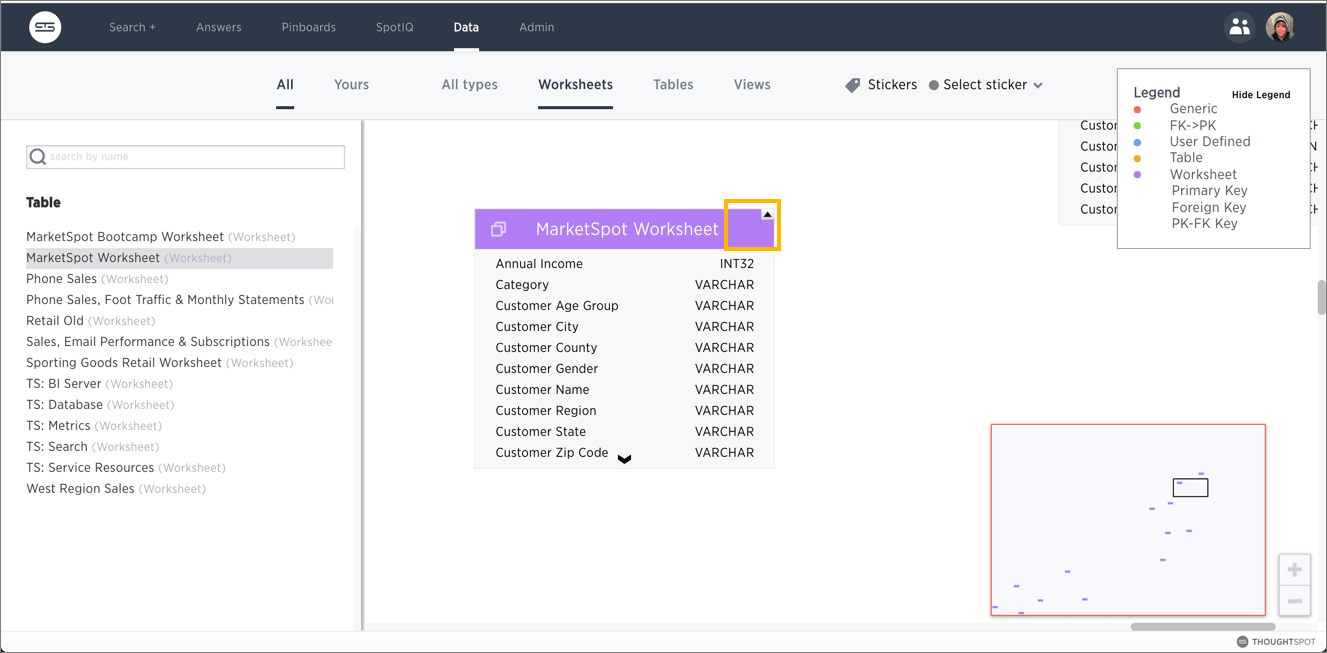
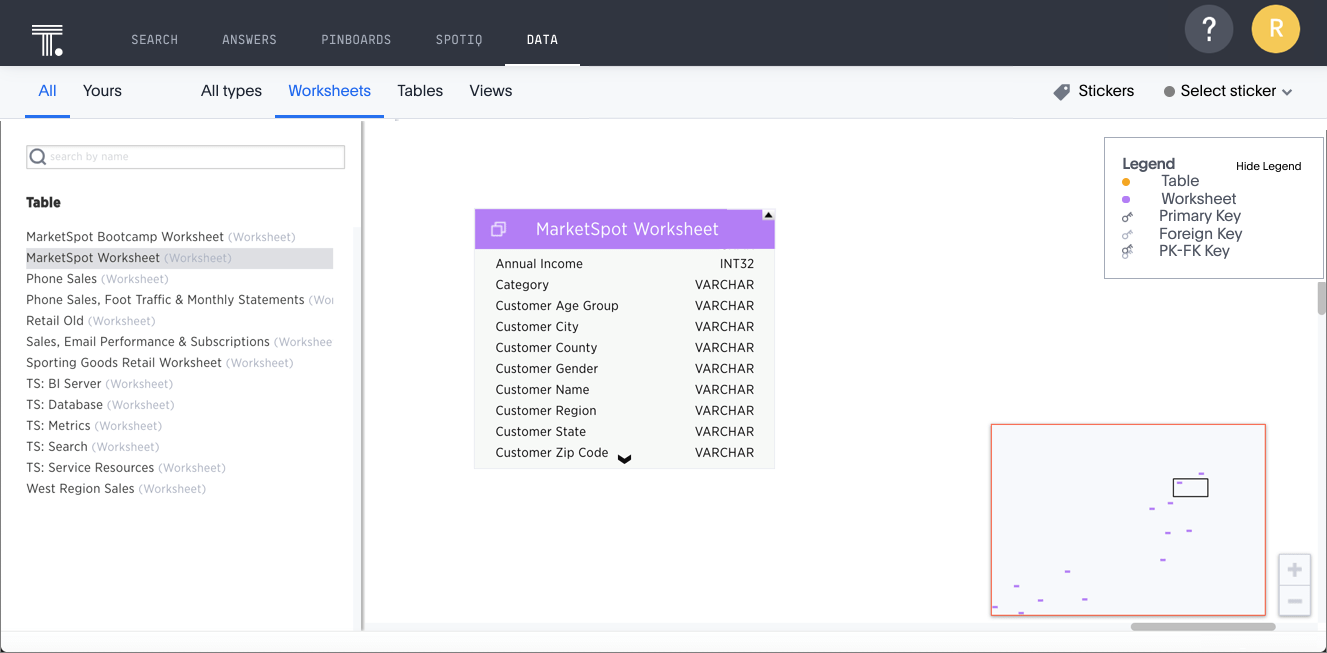
SCAL 70361: removed and updated images in How to view a data scheme

diff --git a/_admin/loading/schema-viewer.md b/_admin/loading/schema-viewer.md
@@ -1,6 +1,6 @@
 ---
 title: [How to view a data schema]
-last_updated: 07/27/2019
+last_updated: 11/19/2020
 toc: true
 summary: "Use the schema viewer to see tables and worksheets and their relationships. "
 sidebar: mydoc_sidebar
@@ -14,11 +14,9 @@ You must have **Admin** privileges to use the **Schema Viewer**.
 
 1. Click the **Data** tab in the top menu.  
 
-   ![]({{ site.baseurl }}/images/click-data.png "Click Data")
-
 2. Click the **More** menu ![more options menu icon]({{ site.baseurl }}/images/icon-ellipses.png){: .inline} (ellipses icon), and select **View Schema**.
 
-   ![]({{ site.baseurl }}/images/access_schema_viewer.png "Access the Schema Viewer")
+   ![]({{ site.baseurl }}/images/view-schema.png "Access the Schema Viewer")
 
 3. When the schema appears, you can see that you can control the visible part of the schema.
 
@@ -43,8 +41,6 @@ You must have **Admin** privileges to use the **Schema Viewer**.
 You can now see the schema for each object for tables, worksheets, or views.
 
 1. Click the **Data** tab in the top menu.  
-
-   ![]({{ site.baseurl }}/images/click-data.png "Click Data")
 
 2. Select from the list of the possible objects:
 
